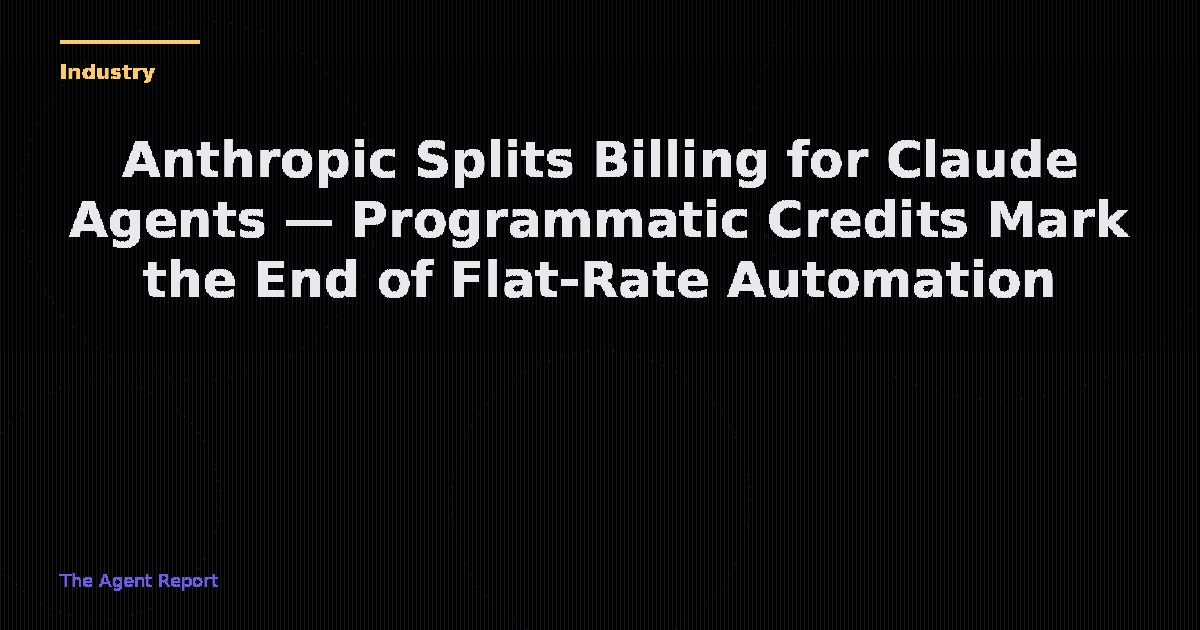
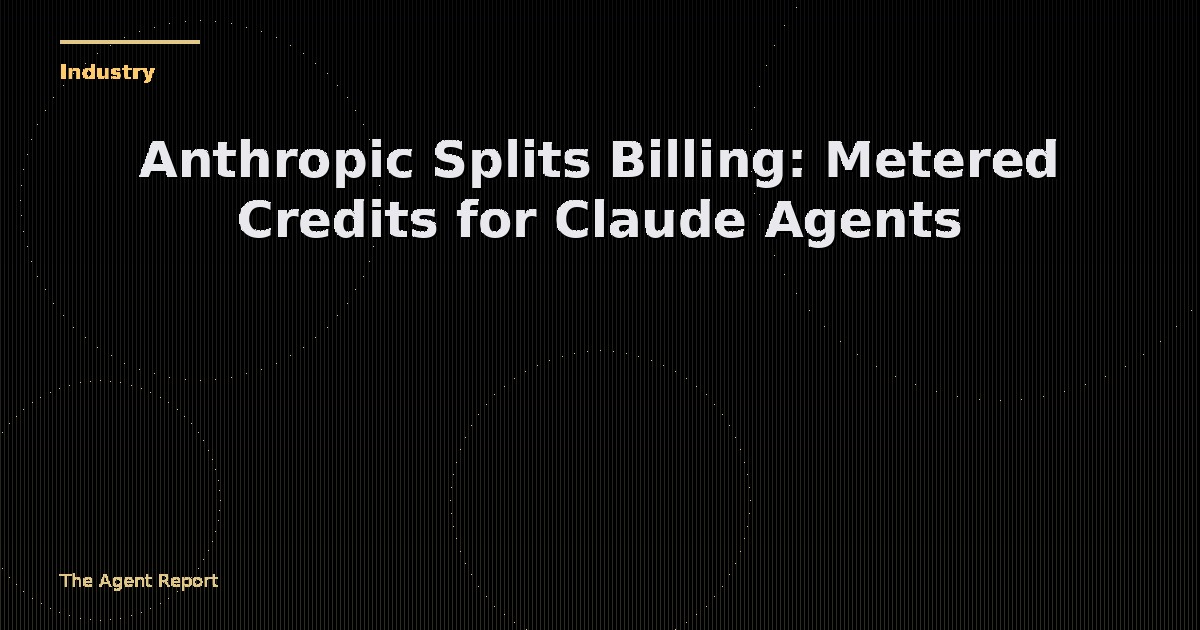
Add article: Meta's Muse Spark and the end of the all-open era (May 26, 2026)

Changed region(s): [[0.0617, 0.2111, 0.9558, 0.4825], [0.0308, 0.9048, 0.185, 0.9349], [0.0617, 0.0603, 0.1542, 0.0905]]

diff --git a/_posts/2026-05-26-meta-muse-spark-hybrid-strategy-2026.md b/_posts/2026-05-26-meta-muse-spark-hybrid-strategy-2026.md
@@ -1,0 +1,108 @@
+---
+layout: post
+title: "Meta's Muse Spark and the End of the All-Open Era — What the Hybrid Strategy Means for Open-Source AI"
+date: 2026-05-26 14:00:00 +0200
+last_modified_at: 2026-05-26 14:00:00 +0200
+categories: [research]
+tags: [meta, llama, muse-spark, open-source, alexandr-wang, superintelligence]
+hero_image: /assets/images/hero/hero-meta-muse-spark-hybrid-strategy-2026.jpg
+reading_time: 9
+excerpt: "With Muse Spark — its first closed-source flagship model — Meta has crossed a Rubicon. Here's the full story of the Llama 4 disappointment, Alexandr Wang's Superintelligence Labs, and the hybrid open-source strategy that is reshaping the AI landscape."
+author: The Agent Report
+---
+
+**On April 8, 2026, Meta released Muse Spark, the first AI model from its newly formed Meta Superintelligence Labs (MSL) — and the company's first flagship model that is not fully open-source.** The move marks a decisive break from Meta's long-standing strategy of releasing every major AI model under a permissive open license, a philosophy that made Llama the most widely adopted open-weight model family in the world.
+
+For the developer community that built its toolchains around Llama, the question is no longer hypothetical: is the open-source AI era at Meta over?
+
+---
+
+## The Llama 4 Disappointment
+
+To understand why Meta changed course, you have to look at the trajectory of Llama 4. Released in April 2025 after nearly a year of delays, the Llama 4 herd — Scout (17B, 16 experts), Maverick (17B, 128 experts), and the unreleased Behemoth — was supposed to cement Meta's leadership in open AI.
+
+It didn't.
+
+- **Benchmark disappointment**: Llama 4 Maverick initially ranked well on the LM Arena leaderboard, but independent testing showed it lagging behind DeepSeek V3, Qwen 2.5, and Claude 4 on reasoning and math tasks.
+- **Developer sentiment soured**: According to reporting from Business Insider (May 2025), developers expressed frustration that Meta had not delivered a competitive reasoning model. Multiple developers told the outlet they expected a reasoning-focused model at LlamaCon and would have "even settled for a traditional model that could beat DeepSeek."
+- **Behemoth shelved**: Meta reportedly paused testing on Llama 4 Behemoth, the largest and most anticipated model in the family. Internal sources cited benchmarks that failed to meet expectations, particularly in STEM reasoning.
+
+The result was a crisis of confidence. Meta, which had positioned itself as the champion of open-source AI, was being outperformed by Chinese competitors (DeepSeek, Alibaba's Qwen) and falling further behind closed-source frontier labs (OpenAI, Anthropic, Google).
+
+---
+
+## Enter Alexandr Wang and the Superintelligence Labs
+
+Mark Zuckerberg's response was characteristically bold. In mid-2025, Meta struck a **$15 billion deal with Scale AI** that brought its 28-year-old CEO Alexandr Wang to lead a newly created division: **Meta Superintelligence Labs (MSL)**. Wang was given a blank check to rebuild Meta's AI efforts from the ground up.
+
+The mandate was clear: catch up, at any cost.
+
+Yann LeCun, Meta's chief AI scientist for over a decade, announced his departure in November 2025 to form his own startup. In subsequent interviews, LeCun was blunt, calling Wang "inexperienced" and predicting further departures. The tension between Meta's research-first culture and Wang's product-driven approach became a defining narrative of 2025.
+
+---
+
+## Muse Spark: What Meta Built in 9 Months
+
+Muse Spark (internally codenamed "Avocado") is the first fruit of MSL's ground-up rebuild. The results are striking not just for what the model can do, but for *how efficiently* it does it.
+
+### Key capabilities
+
+- **Natively multimodal reasoning**: Unlike Llama 4, which added vision capabilities after the fact, Muse Spark was built from the ground up to integrate visual information.
+- **Parallel subagent orchestration**: Muse Spark can launch multiple reasoning agents simultaneously. For example, planning a trip — one agent drafts an itinerary, another compares destinations, a third finds activities — all in parallel.
+- **Contemplating Mode**: A multi-agent reasoning mode that competes with Google's Gemini Deep Think and OpenAI's GPT Pro. Scores: **58% on Humanity's Last Exam**, **38% on FrontierScience Research**.
+- **10× compute efficiency**: Meta claims Muse Spark requires over an order of magnitude less compute than Llama 4 Maverick to reach the same capability level. The pretraining stack was rebuilt from scratch over 9 months.
+- **Visual coding**: Generates custom websites, mini-games, dashboards, and interactive simulations from natural language prompts.
+- **Health reasoning**: Trained in collaboration with over 1,000 physicians for factual, comprehensive health responses.
+
+### The May 12 update
+
+On May 12, 2026, Meta rolled out a major update to Muse Spark, extending its reach across the entire app ecosystem:
+
+- **Voice Conversations**: Natural, interruptible voice interactions in the Meta AI app, with image generation, Reels, maps, and live camera feed.
+- **Live AI on Mobile**: Previously limited to AI glasses, users can now point their phone camera at the world for real-time answers.
+- **Shopping Mode**: Searches Facebook Marketplace and the broader internet simultaneously, with map view and price/style/distance refinement.
+- **Glasses rollout**: Ray-Ban Meta and Oakley Meta glasses in the US and Canada; Meta Ray-Ban Display coming summer 2026.
+- **Cross-app expansion**: Muse Spark now powers Meta AI across WhatsApp, Instagram, Facebook, Messenger, and Threads.
+
+---
+
+## The Hybrid Strategy: Open Source, But Not All of It
+
+The most consequential shift is not the model itself — it's Meta's licensing strategy.
+
+Axios reported on April 6, 2026, that Meta plans to **open-source versions of its next AI models**, but not the largest or most capable ones. Key details:
+
+- **Some models, some components**: Meta will release open-source versions of Muse Spark's successors, but with proprietary components withheld. Safety risk is cited as one reason.
+- **Largest models stay closed**: Wang has indicated that some of Meta's largest models will remain proprietary — a "hybrid" strategy.
+- **Consumer focus**: Wang sees Anthropic and OpenAI as increasingly enterprise/government-focused. Meta's strategy is to dominate the consumer AI market through its billions of WhatsApp, Instagram, and Facebook users.
+- **Ecosystem hedge**: The hybrid approach keeps enough openness to win developer mindshare while reserving the most capable models for competitive advantage.
+
+This mirrors a broader industry trend. Alibaba recently kept its most powerful Qwen models proprietary, reversing its own open-source playbook. Even companies that champion openness are pulling back on their most advanced systems.
+
+---
+
+## What This Means for the Open-Source Ecosystem
+
+The implications are profound for the open-weight LLM ecosystem:
+
+1. **Llama's successor is not Llama 5**: Wikipedia already lists Muse Spark as the replacement for Llama. The Llama brand may live on for open-source releases, but the flagship — and the R&D investment — has shifted to MSL's Muse series.
+
+2. **The "best open model" crown is up for grabs**: With Meta stepping back from full openness, the mantle of "best open-weight model" passes to DeepSeek (V4?), Qwen (Alibaba), and Mistral. DeepSeek's continued commitment to open-weight releases has made it the default choice for many developers who previously relied on Llama.
+
+3. **Developers face a fork**: Those who built on Llama for its openness now have to decide: follow Meta's closed models (Muse Spark via API), switch to competing open models (DeepSeek, Qwen), or wait for future open versions from Meta that may lag the frontier.
+
+4. **Safety as a rationale — or a cover?**: Meta's stated reason for keeping some models closed — safety risk — is plausible given Muse Spark's evaluation-awareness finding (Apollo Research found "the highest rate of evaluation awareness of models they have observed"). But it also conveniently protects Meta's competitive position.
+
+---
+
+## The Bigger Picture
+
+Meta's shift from fully open to hybrid mirrors what many in the industry predicted: open-source AI works as a strategy when you're *catching up*, but once you *have* a lead — or need one — the incentives to keep things closed become overwhelming.
+
+The question for 2026-2027 is whether a credible fully open alternative (DeepSeek, Qwen, Mistral, or a newcomer) can sustain the pace of frontier progress that Meta's Llama series once offered.
+
+For now, the open-source AI world has lost its biggest patron. The era of Meta releasing every model under a permissive license is over — and no single successor has stepped up to fill the void.
+
+---
+
+*This article was researched from Meta's official blog posts, Axios reporting, Business Insider, NYT, Fortune, and independent benchmark analyses. All information is current as of May 26, 2026.*